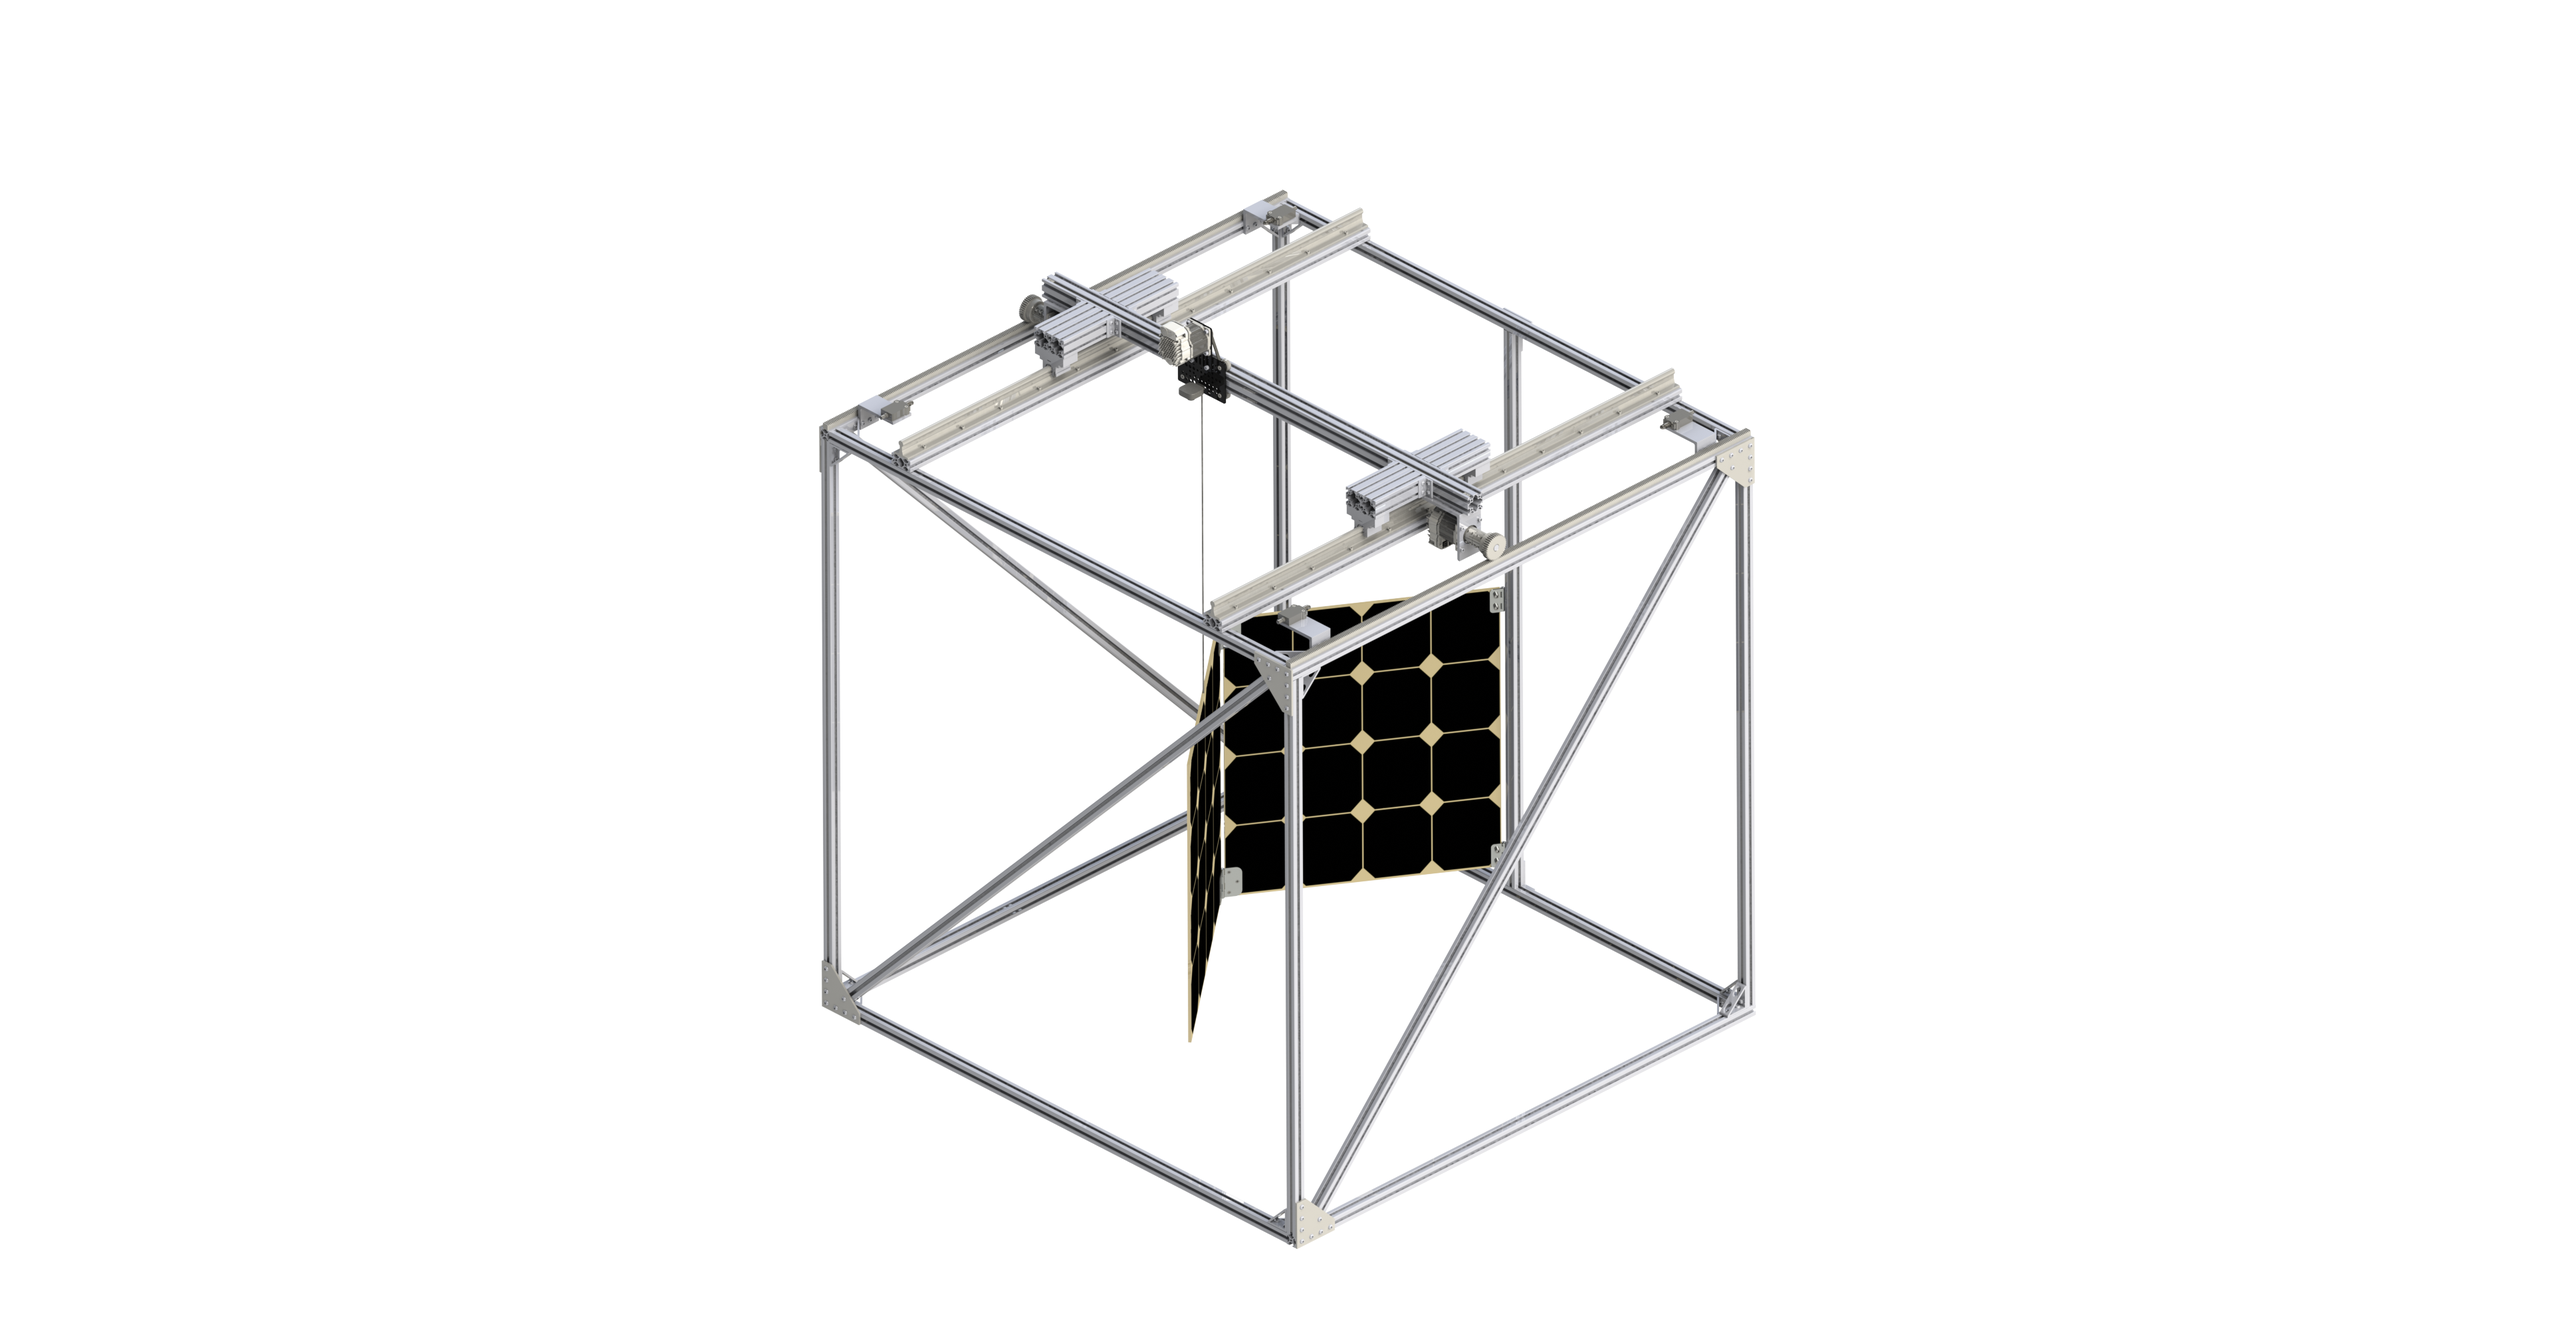
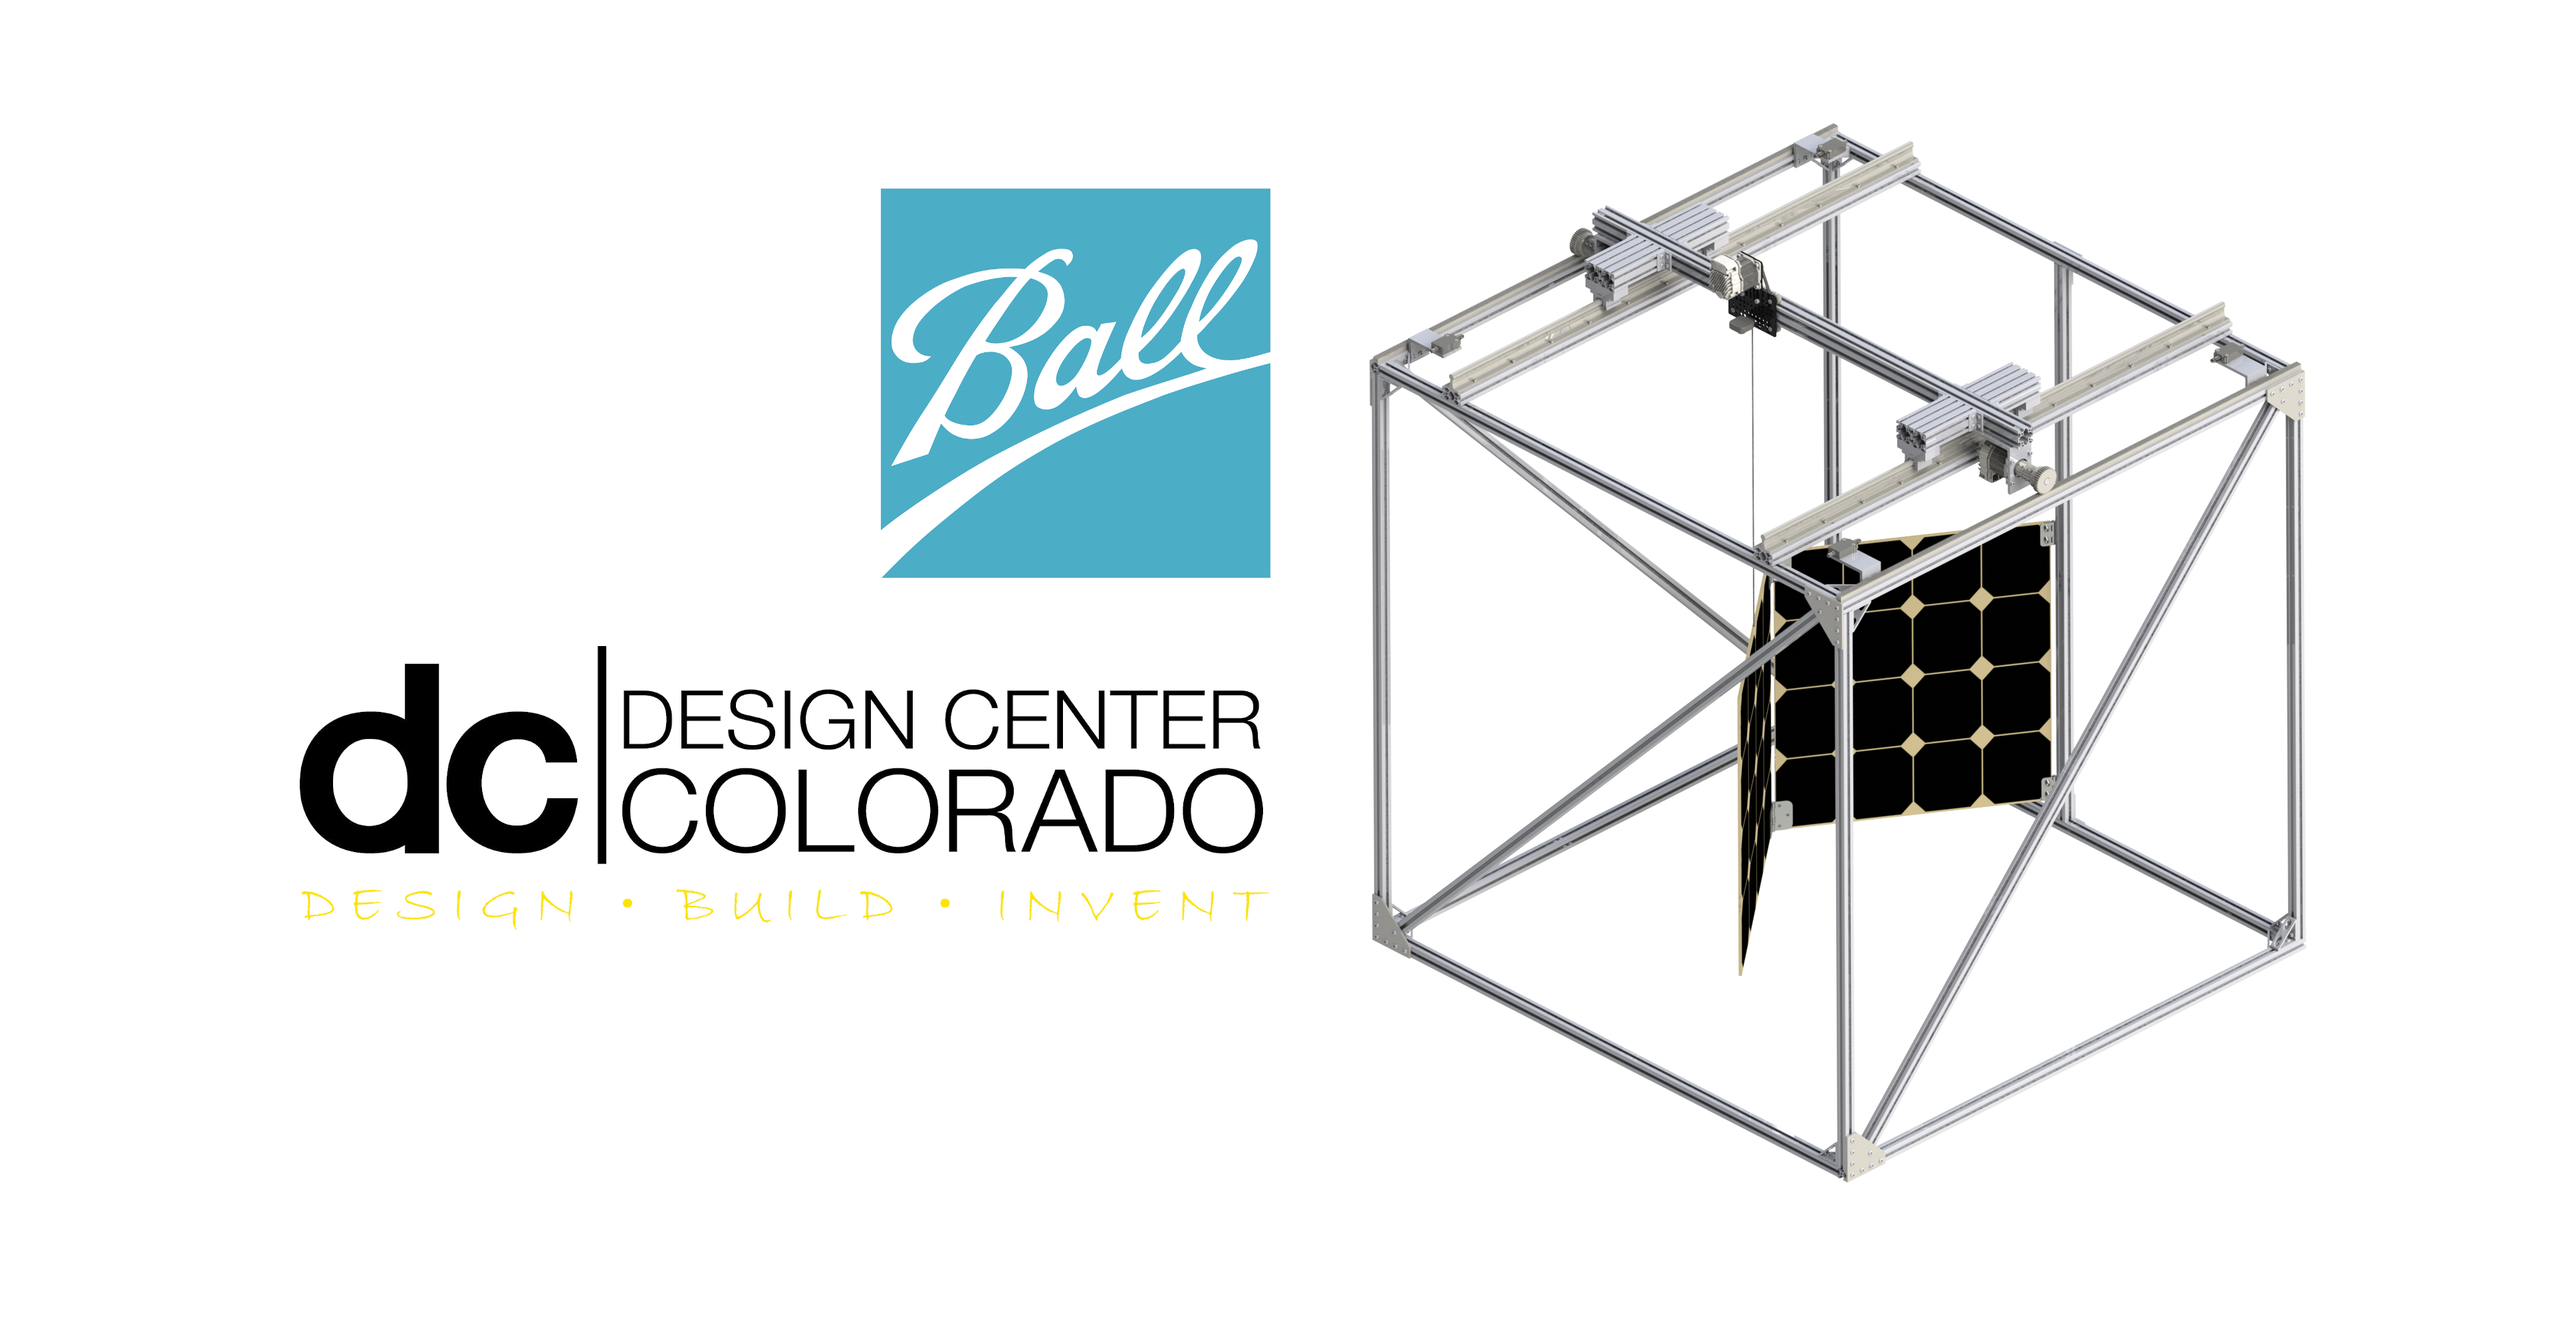
lots of small tweaks + bug fixes
No new features

diff --git a/index.html b/index.html
@@ -43,9 +43,11 @@
       </div>
     </div>
     <div class="vertical_spacer"></div>
+    <!--
     <div class="about_me" id="txt_0">
-        An avid skiier, climber, surfer, and adventurer, I am always looking forward to the next challenge. I have a great passion for engineering and the problems it presents. Let's get to work.
+        Will implement this text in the future...
     </div>
+  -->
     <div class="vertical_spacer"></div>
     <div class="down_arrow_div">
         <div></div>
@@ -85,7 +87,7 @@
               <div class="txt_paragraph">
                 In order to ensure reliability in orbit, solar arrays must be precisely testing is conducted on the ground. This requires the offload of gravitational forces while minimizing any forces imposed by the testing fixture itself.
 
-                This project is a solution provides an active, scalable, and reconfigurable apparatus to support ground testing for a wide range of solar array sizes and variable deployment architectures.
+                As our senior project at CU Boulder's Design Center Colorado, we partnered with Ball Aerospace to develop a new test fixture. This project is a solution provides an active, scalable, and reconfigurable apparatus to support ground testing for a wide range of solar array sizes and variable deployment architectures.
 
                 The prototype implements a computer vision control system to autonomously track the path of each individual solar panel in the array. The active, two-axis gantry system positions itself over the attachment point suspending each solar panel, minimizing lateral forces during testing.
 
@@ -290,7 +292,7 @@
 <div class="footer">
     <div id="email_tag"><b>Email</b> jarrettphilips@gmail.com</div>
     <div class="horizontal_spacer"></div>
-    <div><a class="footer_link" href="https://github.com/JarrettPhilips/JarrettPhilips.github.io">Resume</a></div>
+    <div><a class="footer_link" href="https://drive.google.com/file/d/1RTlLT5QdUNBpmKyA2aP6JbS3I31DbUU7/view?usp=sharing">Resume</a></div>
 </div>
 <div class="footer">
     <div id="source_tag">The source code for this website can be viewed <a class="footer_link" href="https://github.com/JarrettPhilips/JarrettPhilips.github.io">here</a>.</div>
@@ -303,30 +305,38 @@
     ==========
 -->
 <script>
-window.onscroll = function() {title_bar_sticky()};
-var background_hack = document.getElementById("title_bar");
-var sticky = 900;
+window.onscroll = function(){
+  title_bar_sticky()
+};
 
-function title_bar_sticky() {
-  if (window.pageYOffset > sticky) {
+var background_hack = document.getElementById("title_bar");
+
+function title_bar_sticky(){
+  var sticky = window.innerHeight - (window.innerHeight * 0.1); //subtract title bar height (10vh)
+
+  if(window.innerWidth < 730){
+    var sticky = (window.innerHeight * (3/5)) - (window.innerHeight * 0.1);
+  }
+
+  if(window.pageYOffset > sticky){
     background_hack.classList.add("hacky_bg");
   } else {
     background_hack.classList.remove("hacky_bg");
   }
 }
 
-function toggle_txt_visibility(txt_id) {
+function toggle_txt_visibility(txt_id){
   var x = document.getElementById(txt_id);
-  if (x.style.visibility === "visible") {
+  if(x.style.visibility === "visible"){
     x.style.visibility = "hidden";
   } else {
     x.style.visibility = "visible";
   }
 }
 
-function toggle_txt_display(txt_id) {
+function toggle_txt_display(txt_id){
   var x = document.getElementById(txt_id);
-  if (x.style.display === "block") {
+  if(x.style.display === "block"){
     x.style.display = "none";
   } else {
     x.style.display = "block";

diff --git a/style.css b/style.css
@@ -11,6 +11,8 @@
     --primary-color: #0D0D0D;
     --secondary-color: #2f3640;
     --text-color: #ffffff;
+
+    --grid-size: 24vw;
 }
 body {
     background-color: var(--main-bg-color);
@@ -127,11 +129,11 @@ body {
     cursor: pointer;
 }
 .down_arrow_div {
+    margin-top: 150px;
     display: grid;
     grid-template-columns: 1fr 1fr 1fr;
 }
 #down_arrow {
-    padding-top: 55px;
     min-width: 64px;
     filter: invert(100%);
 }
@@ -150,13 +152,13 @@ body {
     width: 100%;
 }
 .container {
-    padding: 60px;
+    padding: 80px;
 	  display: grid;
 	  //grid-template-columns: repeat(auto-fit, minmax(200px, 1fr));
     grid-template-columns: 1fr 1fr;
     //grid-auto-rows: 350px;
-    grid-auto-rows: 20vw;
-    grid-gap: 5px;
+    grid-auto-rows: var(--grid-size);
+    grid-gap: 3px;
     grid-auto-flow: dense;
     //background-size: cover;
 }
@@ -172,6 +174,7 @@ body {
     height: 100%;
     background: url(images/landing_page/berthoud.jpeg) no-repeat center;
     background-size: cover;
+    //grid-column: span 2;
 }
 .img_overlay_wrapper {
     position: absolute;
@@ -211,6 +214,9 @@ body {
 }
 .txt_panel {
     display: none;
+    //overflow: scroll;
+    //overflow: hidden;
+    //grid-column: span 2;
 }
 .txt_wrap {
     color: var(--light-text-color);
@@ -219,14 +225,14 @@ body {
     padding: 20px;
     display: grid;
     grid-template-columns: 1fr 7fr 1fr;
-    grid-gap: 5px;
+    grid-gap: 0px;
     grid-auto-flow: dense;
 }
 .txt_title {
     font-size: 20px;
-    min-width: 100%;
+    min-width: 200px;
     grid-row: span 2;
-    background-color: red;
+    //background-color: red;
 }
 .txt_year {
     font-size: 16px;
@@ -256,6 +262,10 @@ body {
 .txt_paragraph {
     font-size: 14px;
     grid-column: span 3;
+    //height: 70%;
+    //height: 150px;
+    height: calc(var(--grid-size)/1.5);
+    overflow: scroll;
 }
 .txt_filler {
     height: 100%;
@@ -357,12 +367,6 @@ body {
     }
 }
 @media screen and (max-width: 900px){
-    .landing_page {
-        height: 30vh;
-        //overflow: hidden;
-        z-index: 950;
-    }
-
     .container {
         grid-auto-rows: 40vw;
     }
@@ -374,6 +378,11 @@ body {
     }
 }
 @media screen and (max-width: 730px){
+    .landing_page {
+        height: 60vh;
+        //overflow: hidden;
+        z-index: 950;
+    }
     .title_bar {
         //background-color: lime;
         justify-content: center;
@@ -383,19 +392,15 @@ body {
         padding-top: 10px;
     }
 
-    .wrapper {
-
-    }
-
     .title_spacer {
         //height: 20px;
     }
-
-    .name {
-
+    .container {
+        padding: 15px;
     }
 
-    .iconlink {
-
+    .img_overlay_wrapper {
+        visibility: visible;
+        opacity: 1;
     }
 }
